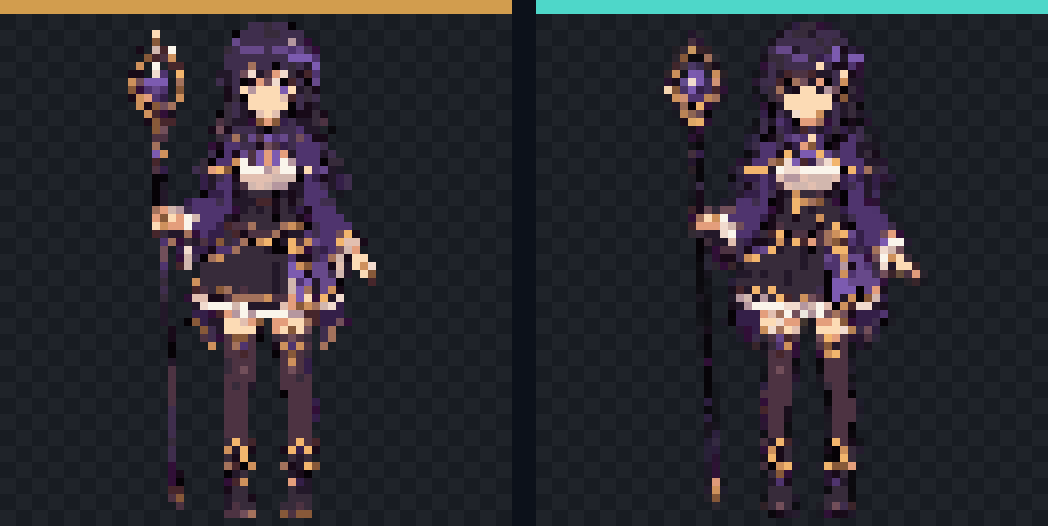
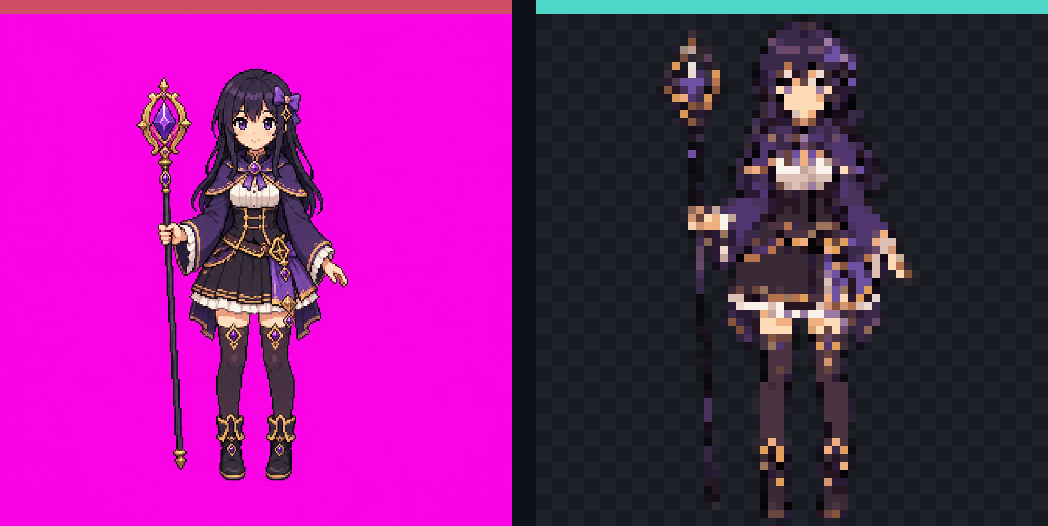
fix: preserve source fidelity in image extraction

diff --git a/scripts/compare-pixel-pipelines.ts b/scripts/compare-pixel-pipelines.ts
@@ -2,8 +2,6 @@ import { mkdirSync, readFileSync, writeFileSync } from "node:fs";
 import { resolve } from "node:path";
 import { PNG } from "pngjs";
 import {
-  applyPerceptualPalette,
-  naiveResizeImageData,
   pixelateImageData,
   removeChromaBackground,
   type PixelGridDetection,
@@ -51,6 +49,17 @@ function preview(image: ImageData, scale: number) {
   return output;
 }
 
+function originalPreview(image: ImageData, size: number) {
+  const output = new ImageData(new Uint8ClampedArray(size * size * 4), size, size);
+  for (let y = 0; y < size; y++) for (let x = 0; x < size; x++) {
+    const sourceX = Math.min(image.width - 1, Math.floor((x + 0.5) * image.width / size));
+    const sourceY = Math.min(image.height - 1, Math.floor((y + 0.5) * image.height / size));
+    const sourceOffset = (sourceY * image.width + sourceX) * 4;
+    output.data.set(image.data.subarray(sourceOffset, sourceOffset + 4), (y * size + x) * 4);
+  }
+  return output;
+}
+
 function contactSheet(left: ImageData, right: ImageData) {
   const gap = 24; const bar = 14;
   const output = new ImageData(new Uint8ClampedArray((left.width * 2 + gap) * (left.height + bar) * 4), left.width * 2 + gap, left.height + bar);
@@ -62,18 +71,18 @@ function contactSheet(left: ImageData, right: ImageData) {
       output.data.set(source.data.subarray(sourceOffset, sourceOffset + 4), targetOffset);
     }
   };
-  // Amber = naive baseline, teal = Pixelate. The standalone images use explicit names.
+  // Coral = exact original source, teal = Pixelate extraction.
   for (let y = 0; y < bar; y++) {
-    for (let x = 0; x < left.width; x++) output.data.set([210, 157, 78, 255], (y * output.width + x) * 4);
+    for (let x = 0; x < left.width; x++) output.data.set([209, 77, 100, 255], (y * output.width + x) * 4);
     for (let x = left.width + gap; x < output.width; x++) output.data.set([78, 215, 201, 255], (y * output.width + x) * 4);
   }
   paste(left, 0); paste(right, left.width + gap);
   return output;
 }
 
-function describeGrid(grid: PixelGridDetection) {
+function describeGrid(grid: PixelGridDetection, recovered: boolean) {
   return grid.detected
-    ? `${grid.columns}x${grid.rows} native grid, ${Math.round(grid.confidence * 100)}% confidence`
+    ? `${grid.columns}x${grid.rows} grid candidate, ${Math.round(grid.confidence * 100)}% confidence, ${recovered ? "recovered" : "skipped"}`
     : `no safe grid recovery (${Math.round(grid.confidence * 100)}% confidence; candidate ${grid.stepX.toFixed(2)}×${grid.stepY.toFixed(2)}px)`;
 }
 
@@ -113,12 +122,10 @@ console.log(`Input preprocessing: ${prepared.background}`);
 
 for (const target of [64, 128, 256]) {
   const optimized = pixelateImageData(input, target, target, 24);
-  const naive = applyPerceptualPalette(naiveResizeImageData(input, target, target), optimized.palette);
   const optimizedUnquantized = pixelateImageData(input, target, target, 24, { quantize: false });
-  writePng(resolve(outputDir, `naive-${target}.png`), naive);
   writePng(resolve(outputDir, `optimized-unquantized-${target}.png`), optimizedUnquantized.imageData);
   writePng(resolve(outputDir, `optimized-${target}.png`), optimized.imageData);
   const scale = Math.max(1, Math.floor(512 / target));
-  writePng(resolve(outputDir, `comparison-${target}.png`), contactSheet(preview(naive, scale), preview(optimized.imageData, scale)));
-  console.log(`${target}x${target}: ${describeGrid(optimized.grid)}; shared ${optimized.palette.length}-color palette`);
+  writePng(resolve(outputDir, `comparison-${target}.png`), contactSheet(originalPreview(decoded, 512), preview(optimized.imageData, scale)));
+  console.log(`${target}x${target}: ${describeGrid(optimized.grid, optimized.gridRecovered)}; shared ${optimized.palette.length}-color palette`);
 }

diff --git a/packages/pixel-core/src/pixel-art.ts b/packages/pixel-core/src/pixel-art.ts
@@ -858,10 +858,21 @@ function fitPixelArt(source: ImageData, width: number, height: number) {
   return pasteCentered(resized, width, height);
 }
 
-function recoverPixelArtSource(source: ImageData, grid: PixelGridDetection, recoverGrid: boolean) {
-  if (!recoverGrid || !grid.detected) return { imageData: source, gridRecovered: false };
+function recoverPixelArtSource(source: ImageData, grid: PixelGridDetection, recoverGrid: boolean, targetWidth: number, targetHeight: number) {
+  // A weak FFT proposal can satisfy the geometric cell-size checks while
+  // actually locking onto character features instead of the source lattice.
+  // Keep the proposal available for diagnostics, but do not let it rewrite
+  // facial features or other small details. A validated Sobel fallback has no
+  // comparable FFT score, so it remains eligible for recovery.
+  const trustworthyGrid = grid.gradientFallbackUsed || grid.confidence >= 0.1;
   const alignedColumns = grid.alignedColumns ?? (grid.xBoundaries?.length ? Math.max(1, grid.xBoundaries.length - 1) : grid.columns);
   const alignedRows = grid.alignedRows ?? (grid.yBoundaries?.length ? Math.max(1, grid.yBoundaries.length - 1) : grid.rows);
+  // When the detected native grid is finer than the requested output, grid
+  // recovery would create an unnecessary intermediate and then resample it a
+  // second time. Downscale the original source directly so eyes and other
+  // one-pixel features are sampled only once.
+  const targetCanRepresentGrid = alignedColumns <= targetWidth && alignedRows <= targetHeight;
+  if (!recoverGrid || !grid.detected || !trustworthyGrid || !targetCanRepresentGrid) return { imageData: source, gridRecovered: false };
   const recovered = edgeAwareDownscale(source, alignedColumns, alignedRows, { x: grid.xBoundaries, y: grid.yBoundaries });
   return { imageData: applyPerfectPixelSquareAdjustment(recovered, grid.squareAdjustment), gridRecovered: true };
 }
@@ -869,9 +880,10 @@ function recoverPixelArtSource(source: ImageData, grid: PixelGridDetection, reco
 export function pixelateImageData(source: ImageData, width: number, height: number, paletteSize = 24, options: PixelArtProcessOptions = {}): PixelArtProcessResult {
   const recoverGrid = options.recoverGrid !== false;
   const grid = options.gridHint || detectPseudoPixelGrid(source);
-  const recovered = recoverPixelArtSource(source, grid, recoverGrid);
+  const outputWidth = Math.max(1, Math.round(width)); const outputHeight = Math.max(1, Math.round(height));
+  const recovered = recoverPixelArtSource(source, grid, recoverGrid, outputWidth, outputHeight);
   const cropped = cropPixelArt(recovered.imageData, sharedContentBounds([recovered.imageData]));
-  let imageData = fitPixelArt(cropped, Math.max(1, Math.round(width)), Math.max(1, Math.round(height)));
+  let imageData = fitPixelArt(cropped, outputWidth, outputHeight);
   const palette = options.quantize === false ? [] : derivePerceptualPalette([imageData], paletteSize);
   if (palette.length) imageData = applyPerceptualPalette(imageData, palette);
   return { imageData, grid, gridRecovered: recovered.gridRecovered, palette };

diff --git a/tests/core.test.ts b/tests/core.test.ts
@@ -399,6 +399,39 @@ describe("local frame and pixel processing", () => {
     expect(grid.fftConfidence).toBe(0);
   });
 
+  it("does not apply a weak FFT lattice that can rewrite source features", () => {
+    const size = 32;
+    const data = new Uint8ClampedArray(size * size * 4);
+    for (let y = 8; y < 24; y++) for (let x = 10; x < 22; x++) {
+      data.set([x === 13 || x === 18 ? 245 : 35, 30, 70, 255], (y * size + x) * 4);
+    }
+    const source = new ImageData(data, size, size);
+    const weakGrid = {
+      detected: true, stepX: 4, stepY: 4, columns: 8, rows: 8,
+      confidence: 0.03, fftConfidence: 0.03, fftValid: true,
+      xBoundaries: Array.from({ length: 9 }, (_, index) => index * 4),
+      yBoundaries: Array.from({ length: 9 }, (_, index) => index * 4),
+    };
+    const result = pixelateImageData(source, size, size, 24, { gridHint: weakGrid, quantize: false });
+    expect(result.gridRecovered).toBe(false);
+    expect(result.imageData.data).toEqual(source.data);
+  });
+
+  it("samples the source once when its detected grid is finer than the target", () => {
+    const size = 32;
+    const data = new Uint8ClampedArray(size * size * 4);
+    for (let offset = 0; offset < data.length; offset += 4) data.set([80, 45, 130, 255], offset);
+    const fineGrid = {
+      detected: true, stepX: 2, stepY: 2, columns: 16, rows: 16,
+      confidence: 0.8, fftConfidence: 0.8, fftValid: true,
+      xBoundaries: Array.from({ length: 17 }, (_, index) => index * 2),
+      yBoundaries: Array.from({ length: 17 }, (_, index) => index * 2),
+    };
+    const result = pixelateImageData(new ImageData(data, size, size), 8, 8, 8, { gridHint: fineGrid });
+    expect(result.gridRecovered).toBe(false);
+    expect([result.imageData.width, result.imageData.height]).toEqual([8, 8]);
+  });
+
   it("reconstructs every selected animation output pixel independently", () => {
     const data = new Uint8ClampedArray(8 * 8 * 4);
     for (let y = 0; y < 8; y++) for (let x = 0; x < 8; x++) {

diff --git a/README.md b/README.md
@@ -77,14 +77,12 @@ Still image: chroma removal → FFT/Sobel grid recovery → edge-aware sampling 
 Animation:   chroma removal → quantized step estimate → true-resolution reconstruction → temporal palette stabilization → sprite sheet
 ```
 
-The repository keeps visual regression fixtures for reviewing algorithm changes. The example begins with a magenta-keyed source image and compares a naïve nearest-neighbor pixelation baseline with Pixelate's optimized result. Both use the same transparent content crop, 256 × 256 canvas, and exact 24-color palette, isolating the spatial image-quality difference.
+The repository keeps visual regression fixtures for reviewing algorithm changes. The comparison places the exact magenta-keyed source beside Pixelate's transparent 256 × 256 extraction, making source fidelity—including the eyes, silhouette, staff, and costume details—easy to inspect.
 
 <div align="center">
-  <p><strong>Example source</strong></p>
-  <img src="public/assets/demo-alchemist.png" width="420" alt="Magenta-keyed pixel-art mage source image" />
-  <p><strong>256 × 256 output comparison</strong></p>
-  <p>Naïve baseline (amber) · Pixelate (teal)</p>
-  <img src="docs/comparisons/pixel-pipeline/comparison-256.png" alt="Naive nearest-neighbor baseline and Pixelate 256 × 256 comparison" />
+  <p><strong>Original source vs. 256 × 256 extraction</strong></p>
+  <p>Original magenta source (coral) · Pixelate extraction (teal)</p>
+  <img src="docs/comparisons/pixel-pipeline/comparison-256.png" alt="Original magenta-keyed source and Pixelate transparent 256 by 256 extraction" />
 </div>
 
 Read the full rationale and reproduction steps in [Pixel-art processing pipeline](docs/pixel-processing.md).
@@ -143,7 +141,7 @@ The verification suite runs TypeScript checks, unit tests, and a production buil
 | `pnpm preview` | Preview the production build locally. |
 | `pnpm test` | Run the Vitest test suite. |
 | `pnpm check` | Run type checking, tests, and the production build. |
-| `pnpm compare:pixels` | Regenerate the naïve-baseline-versus-Pixelate comparison fixtures. |
+| `pnpm compare:pixels` | Regenerate the original-source-versus-Pixelate extraction fixtures. |
 | `pnpm deploy:cloudflare:dry-run` | Validate the Cloudflare Worker bundle without deploying. |
 | `pnpm deploy:cloudflare` | Build and deploy with Wrangler. |
 

diff --git a/docs/pixel-processing.md b/docs/pixel-processing.md
@@ -56,13 +56,13 @@ Run:
 pnpm compare:pixels
 ```
 
-The command processes `public/assets/demo-alchemist.png` through a naïve
-nearest-neighbor baseline and Pixelate at 64×64, 128×128, and 256×256. Both
-results use the exact palette derived by Pixelate, so the comparison isolates
-spatial reconstruction quality. Standalone outputs and
-side-by-side contact sheets are written to
-`docs/comparisons/pixel-pipeline/`. In contact sheets, amber identifies the
-naïve baseline and teal identifies Pixelate.
+The command processes `public/assets/demo-alchemist.png` through Pixelate at
+64×64, 128×128, and 256×256. Standalone extracted outputs and side-by-side
+source/extraction contact sheets are written to
+`docs/comparisons/pixel-pipeline/`. In contact sheets, coral identifies the
+exact original magenta source and teal identifies Pixelate's transparent
+extraction. The source panel is resized only for display; processing always
+starts from the original 1254×1254 file.
 
 The comparison is intentionally retained in the repository so changes to the
 algorithm can be reviewed visually instead of relying only on unit tests.
